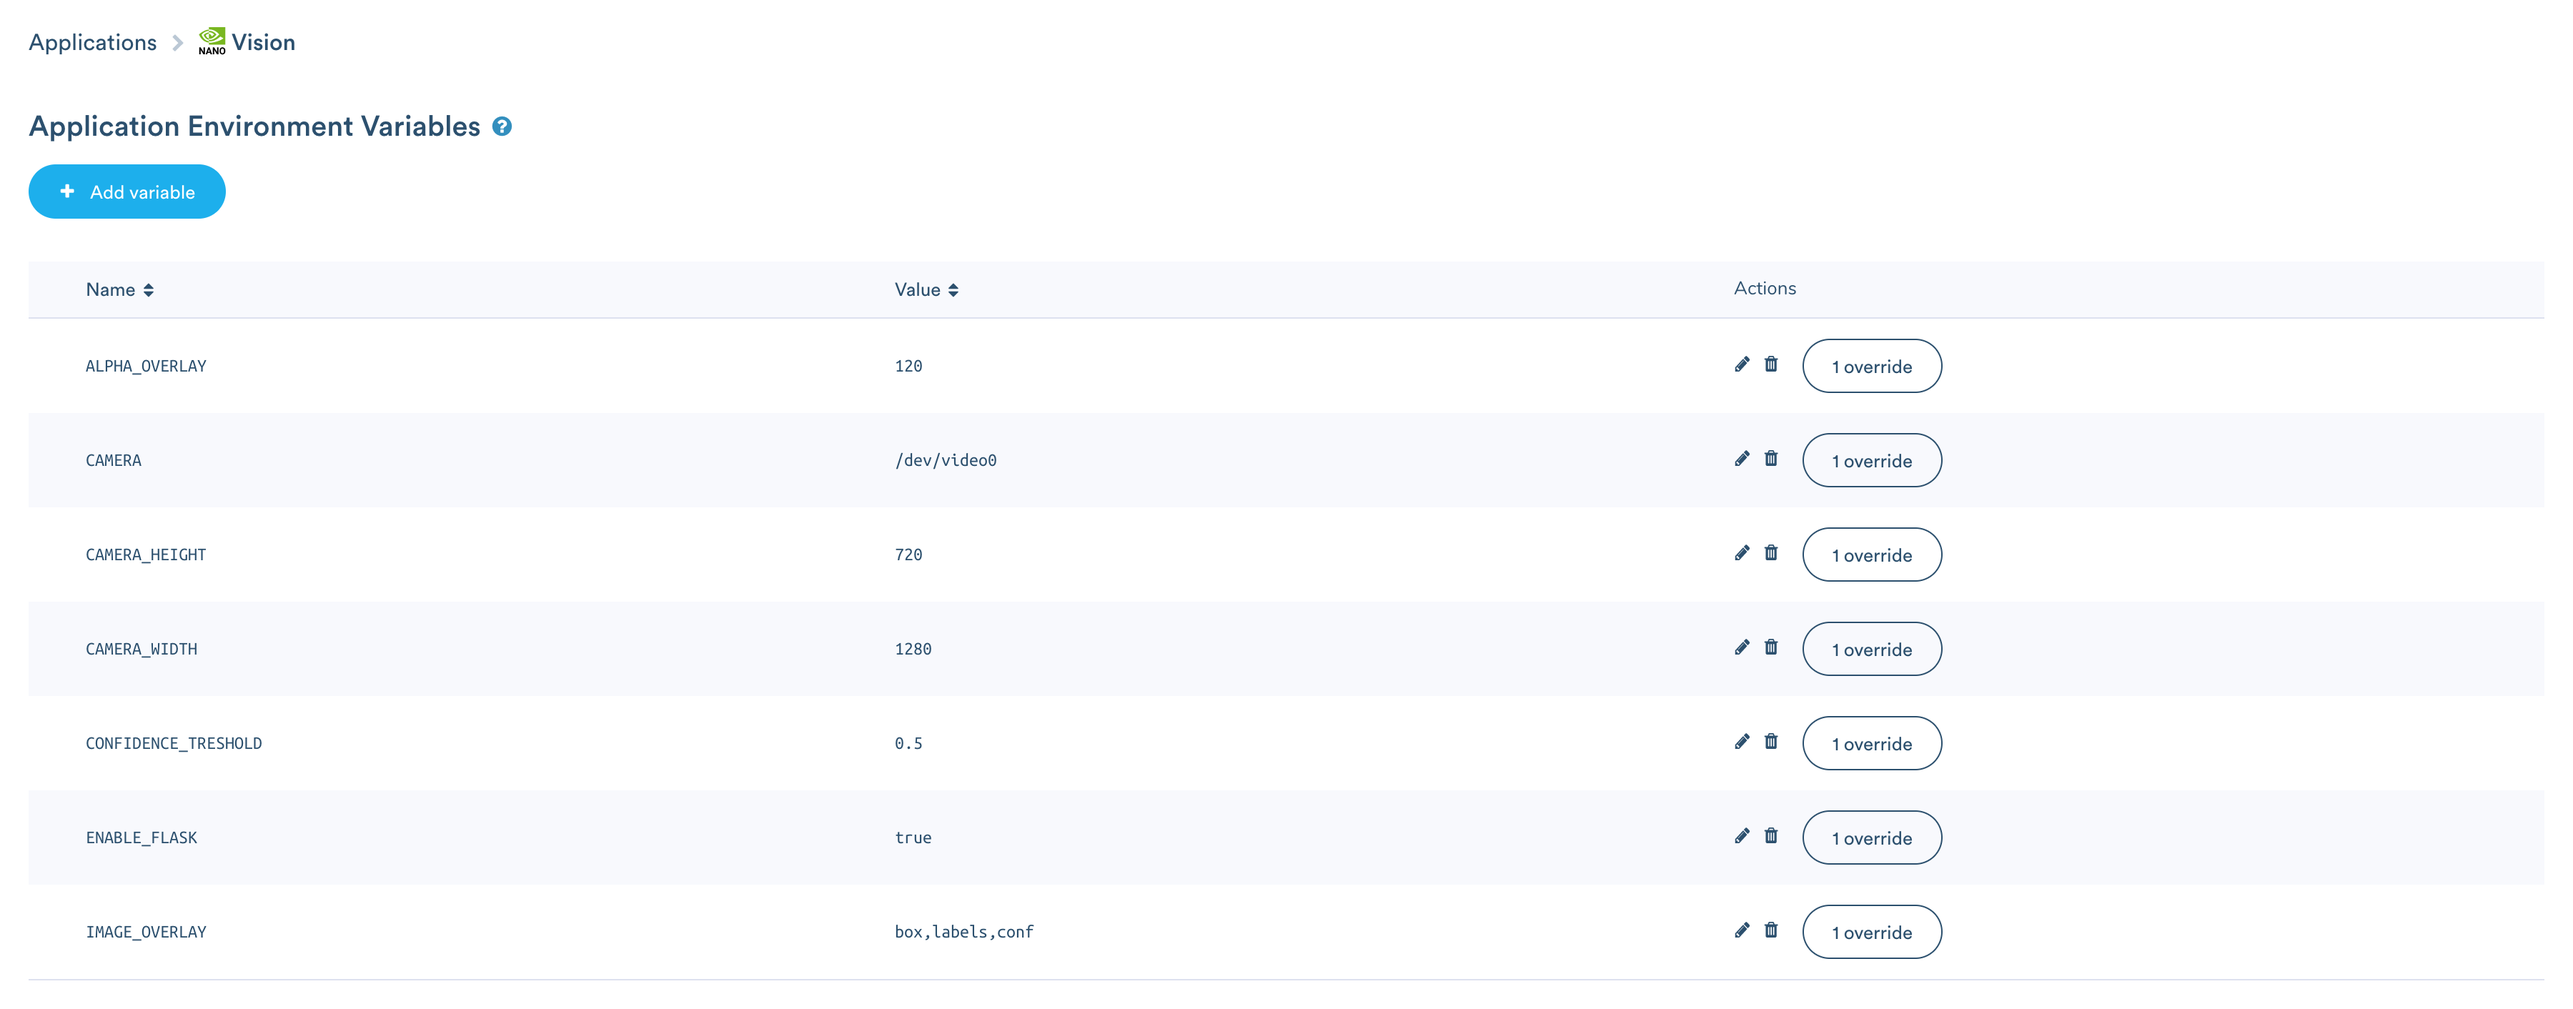
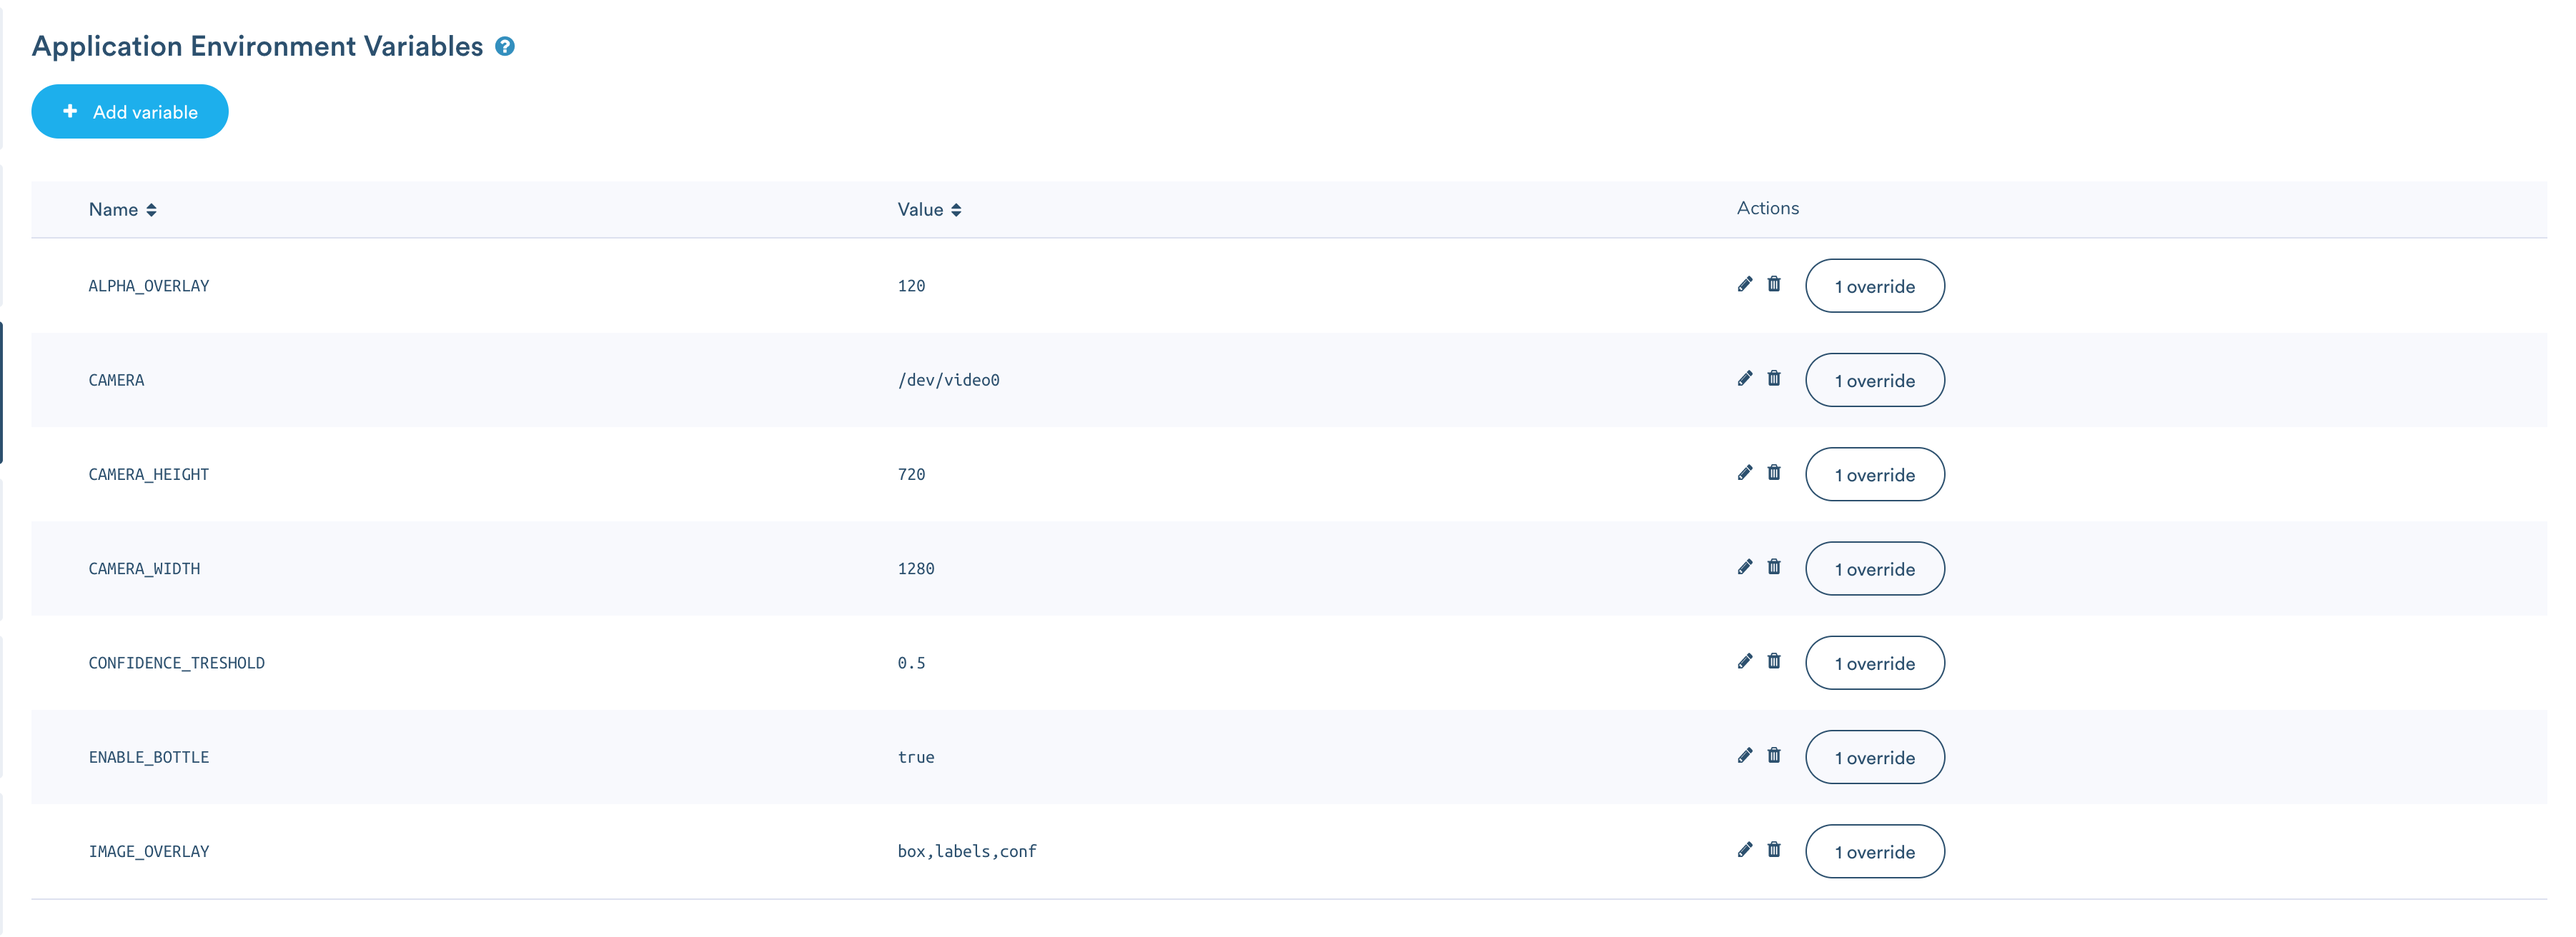
updated readme

diff --git a/dockers/vision/vision/vision.py b/dockers/vision/vision/vision.py
@@ -35,9 +35,9 @@ try:
 except KeyError:
     ALPHA_OVERLAY = 120
 try:
-    ENABLE_FLASK = str(os.environ['ENABLE_FLASK']).lower() == 'true'
+    ENABLE_BOTTLE = str(os.environ['ENABLE_BOTTLE']).lower() == 'true'
 except KeyError:
-    ENABLE_FLASK = True
+    ENABLE_BOTTLE = True
 
 sys.argv.append('--threshold=' + str(CONFIDENCE_TRESHOLD))
 sys.argv.append('--alpha=' + str(ALPHA_OVERLAY))
@@ -69,13 +69,13 @@ def run():
     camera.Open()
 
     # get camera frame
-    if (ENABLE_FLASK):
+    if (ENABLE_BOTTLE):
       img, width, height = camera.CaptureRGBA(zeroCopy=1)
     else:
       img, width, height = camera.CaptureRGBA(zeroCopy=0)
 
     # detect objects
-    if (ENABLE_FLASK):
+    if (ENABLE_BOTTLE):
       objects = mobilenet.Detect(img, width, height, IMAGE_OVERLAY)
     else:
       objects = mobilenet.Detect(img, width, height, 'none')
@@ -87,7 +87,7 @@ def run():
     print(json)
 
     # serve images
-    if (ENABLE_FLASK):
+    if (ENABLE_BOTTLE):
       numpy_img = jetson.utils.cudaToNumpy(img, CAMERA_WIDTH, CAMERA_HEIGHT, 4)
       cv2.putText(numpy_img, str(fps) + ' fps', (20, 40), cv2.FONT_HERSHEY_DUPLEX, 1, (209, 80, 0, 255), 3)
       with server.lock:
@@ -96,7 +96,7 @@ def run():
 
   camera.Close()
 
-if (ENABLE_FLASK):
+if (ENABLE_BOTTLE):
   t = threading.Thread(target=server.serve, args=())
   t.daemon = True
   t.start()

diff --git a/README.md b/README.md
@@ -3,7 +3,7 @@ Object detection with ssd_mobilenet_v2_coco model optimized with TensorRT on NVI
 
 [![DockerHub Badge](https://dockeri.co/image/bouwe/jetson-nano-vision)](https://hub.docker.com/r/bouwe/jetson-nano-vision)
 
-All docker files rely on standard deb/zip/tbz2 files which include all necessary libraries like CUDA, CUDNN, TensorRT etc. It is possible to download these directly from the nvidia developer console. I'm using a Logitech C920 HD Pro webcam attached to my Jetson Nano for doing object detection with. I've used the Jetson Inference of dusty-nv (https://github.com/dusty-nv/jetson-inference) to make this work. The pretrained ssd_mobilenet_v2_coco model optimized for TensorRT is used. It will automatically serve the images with Flask (http://flask.pocoo.org/) on port 80 of your Jetson Nano which can then be viewed by going to the ip of that device. Resolution of the webcam is set to 1024x720. I'd advise to look at NVIDIA DeepStream for more performant detection.
+All docker files rely on standard deb/zip/tbz2 files which include all necessary libraries like CUDA, CUDNN, TensorRT etc. It is possible to download these directly from the nvidia developer console. I'm using a Logitech C920 HD Pro webcam attached to my Jetson Nano for doing object detection with. I've used the Jetson Inference of dusty-nv (https://github.com/dusty-nv/jetson-inference) to make this work. The pretrained ssd_mobilenet_v2_coco model optimized for TensorRT is used. It will automatically serve the images with Bottle (https://github.com/bottlepy/bottle) on port 80 of your Jetson Nano which can then be viewed by going to the ip of that device. Resolution of the webcam is set to 1024x720. I'd advise to look at NVIDIA DeepStream for more performant detection.
 
 [![jetson-nano](./images/detection.gif)](./images/detection.gif)
 
@@ -33,7 +33,7 @@ It is possible to set environment variables within your Docker environment.
 * CAMERA (which camera source to use, default '/dev/video0')
 * CONFIDENCE_TRESHOLD (confidence of detection, default 0.5)
 * ALPHA_OVERLAY (alpha value of the image overlay of the detection, default 120)
-* ENABLE_FLASK (enable Flask webserver, default True)
+* ENABLE_BOTTLE (enable Bottle webserver, default true)
 
 ## Deploy with Balena
 Clone this repository, ceate an application on Balena Cloud (https://www.balena.io/cloud/) and flash Balena OS on an sd-card and put it in the Jetson Nano. It's now possible to link a git repository with Balena. Balena will use the docker-compose.yml file in the root of the directory to build and deploy the container.
